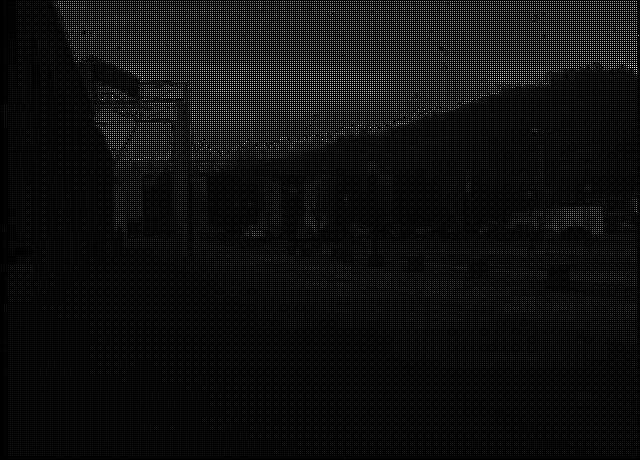
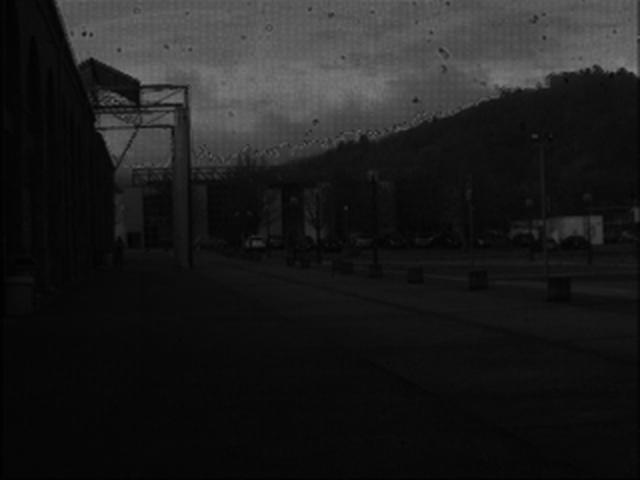
interpolation

diff --git a/process.py b/process.py
@@ -1,7 +1,8 @@
+from PIL import Image
 import numpy as np
 
 
-def process_interpollation(image):
+def process_interpolation(image):
     # print(image.shape)
     threshold = 5.7
 
@@ -124,8 +125,8 @@ def process_interpollation(image):
 
 def fill_values(i0, i45, i135, i90, original):
 
-    for indx in original.shape[0]:
-        for indy in original.shape[1]:
+    for indx in range(original.shape[0]):
+        for indy in range(original.shape[1]):
 
             if indx % 2 == 0:
 
@@ -140,4 +141,37 @@ def fill_values(i0, i45, i135, i90, original):
                     i45[indx, indy] = original[indx, indy]
                 else:
                     i90[indx, indy] = original[indx, indy]
+    return [i0, i45, i135, i90]
+
+
+def interpolate_pol(i0, i45, i135, i90):
+
+    inter1 = Image.fromarray(i0)
+    img = inter1.resize((int(640 / 2), int(480 / 2)), Image.ANTIALIAS)
+    inter2 = img
+    img = inter2.resize((int(640), int(480)), Image.ANTIALIAS)
+
+    i0 = np.array(img)
+
+    inter1 = Image.fromarray(i45)
+    img = inter1.resize((int(640 / 2), int(480 / 2)), Image.ANTIALIAS)
+    inter2 = img
+    img = inter2.resize((int(640), int(480)), Image.ANTIALIAS)
+
+    i45 = np.array(img)
+
+    inter1 = Image.fromarray(i135)
+    img = inter1.resize((int(640 / 2), int(480 / 2)), Image.ANTIALIAS)
+    inter2 = img
+    img = inter2.resize((int(640), int(480)), Image.ANTIALIAS)
+
+    i135 = np.array(img)
+
+    inter1 = Image.fromarray(i90)
+    img = inter1.resize((int(640 / 2), int(480 / 2)), Image.ANTIALIAS)
+    inter2 = img
+    img = inter2.resize((int(640), int(480)), Image.ANTIALIAS)
+
+    i90 = np.array(img)
+
     return [i0, i45, i135, i90]

diff --git a/main.py b/main.py
@@ -2,8 +2,9 @@ import argparse
 import os
 from PIL import Image
 import numpy as np
-from process import process_interpollation
+from process import process_interpolation
 from process import fill_values
+from process import interpolate_pol
 
 if __name__ == "__main__":
     parser = argparse.ArgumentParser()
@@ -25,9 +26,11 @@ if __name__ == "__main__":
         image = np.array(Image.open(path))
         # print(image.shape)
 
-        i0, i45, i135, i90 = process_interpollation(image)
+        i0, i45, i135, i90 = process_interpolation(image)
 
         i0, i45, i135, i90 = fill_values(i0, i45, i135, i90, image)
+
+        i0, i45, i135, i90 = interpolate_pol(i0, i45, i135, i90)
 
         image_out = Image.fromarray(i0)
         image_out.save(output_images_path[indx])
